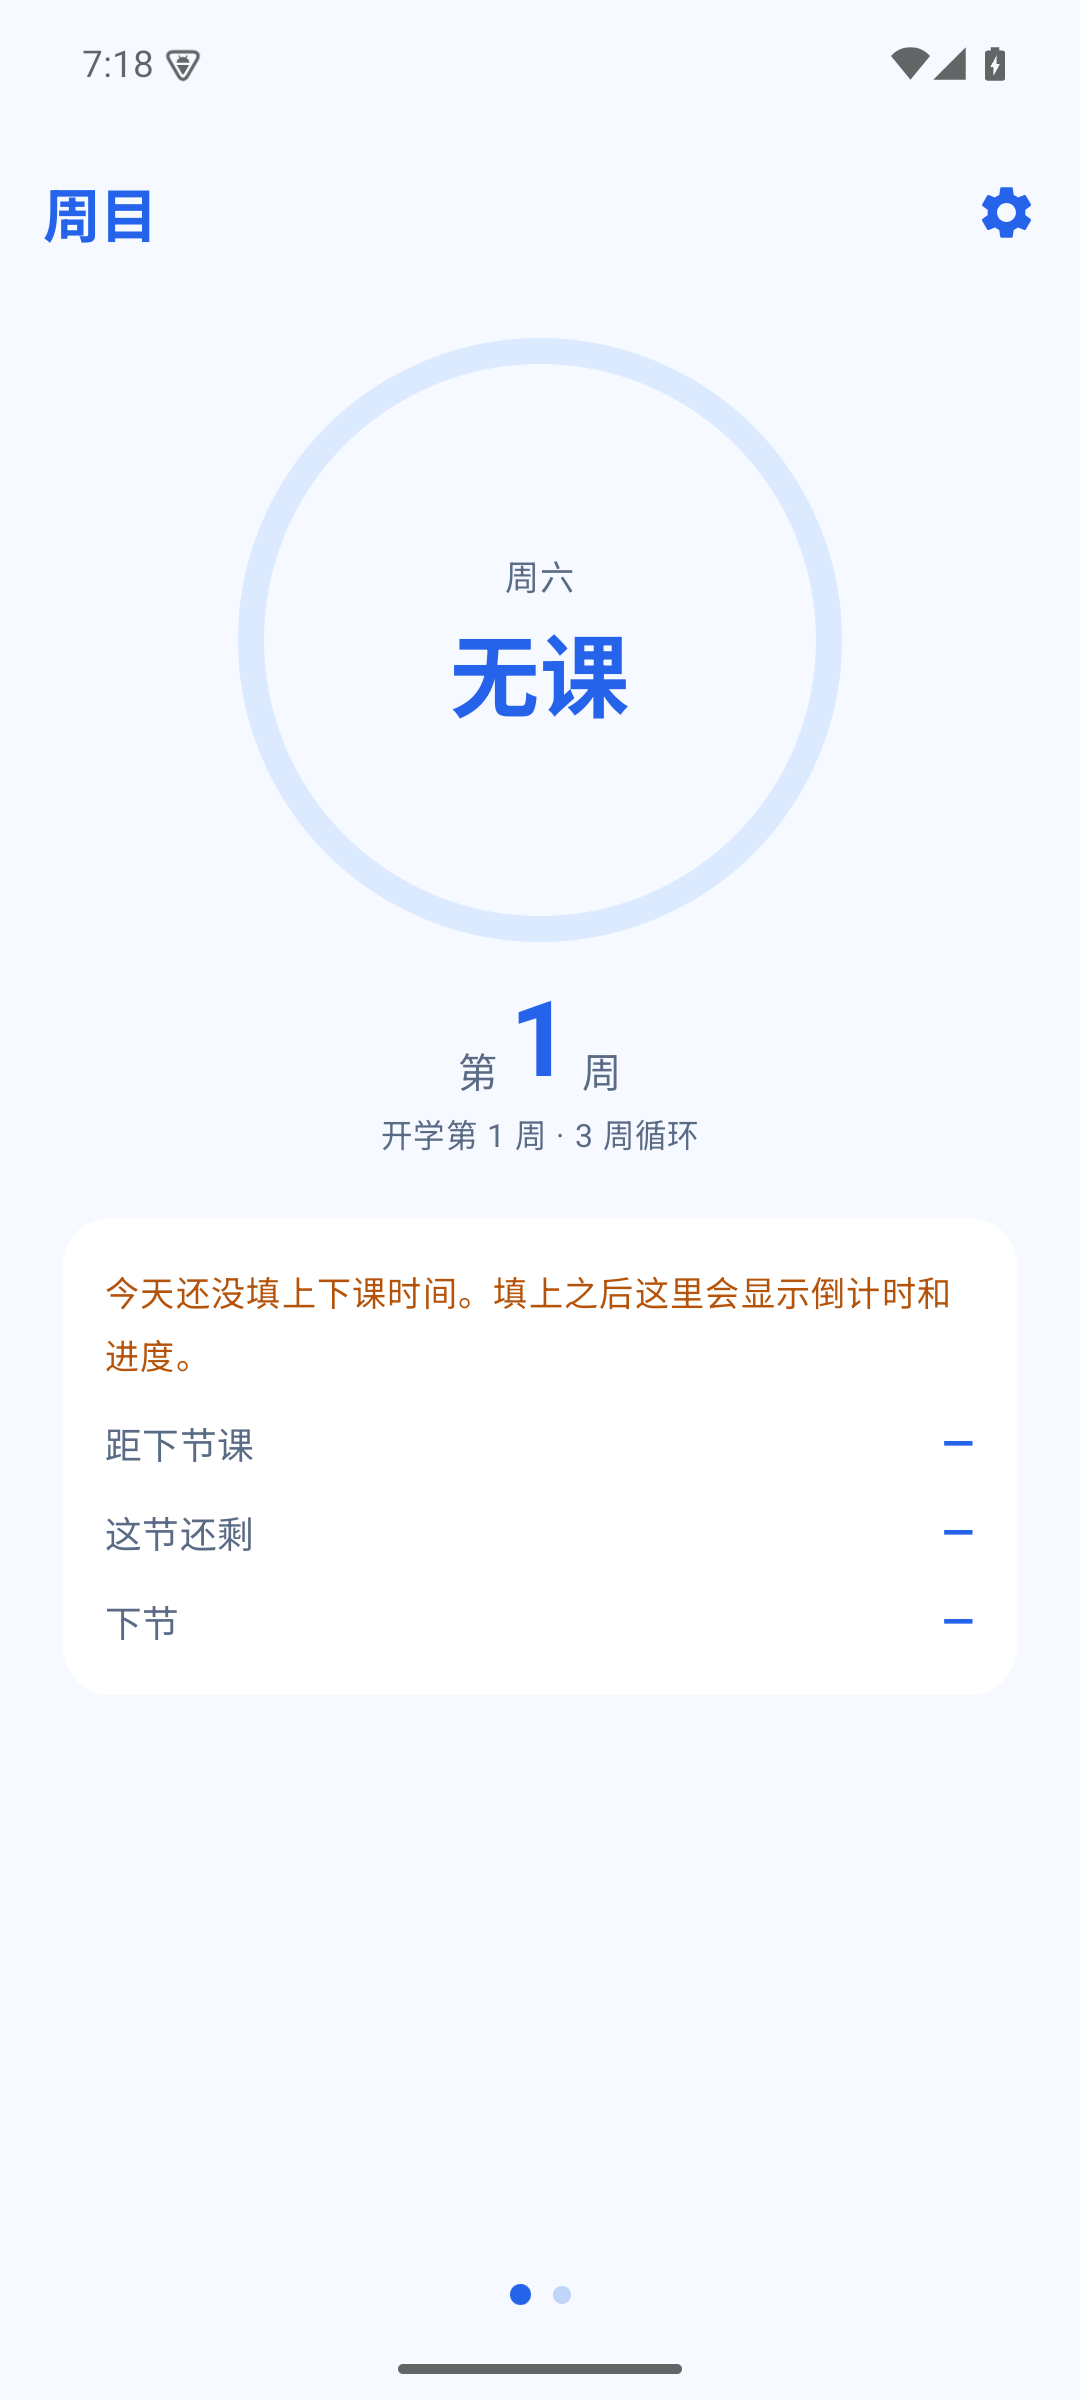
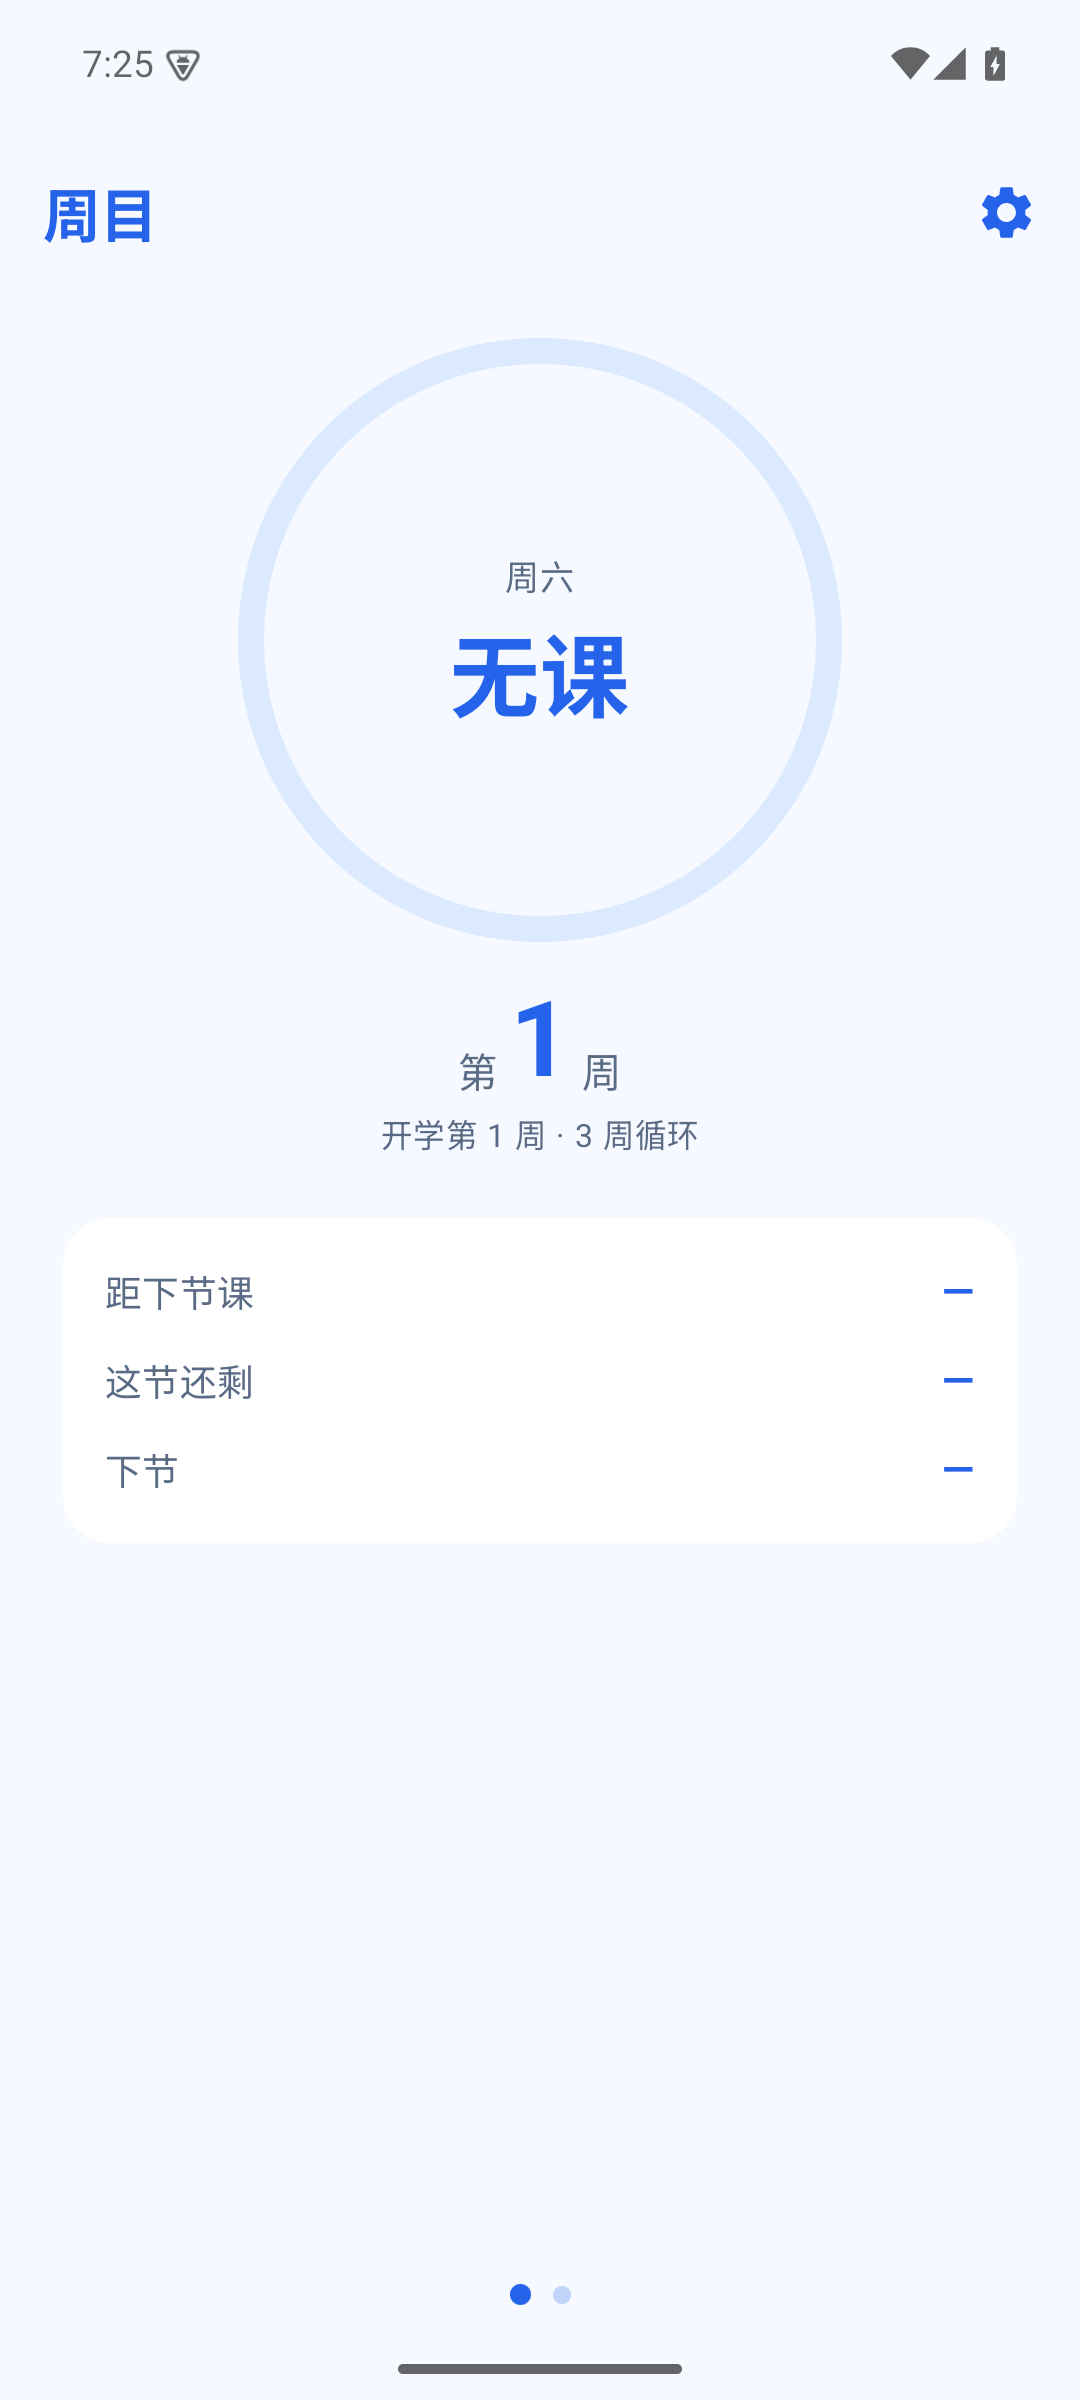
模拟器实测：修两个 bug + 补验证说明
在 Android 15 模拟器上真跑了一遍，抓到两个 bug：

① 改完课表不会重排提醒
   reschedule() 原本只在 Application.onCreate 里调一次，
   结果在 App 启动之后加课表，dumpsys alarm 里还是空的
   → 现在监听 settings 流，一变就重排 + 刷小组件

② 时间对话框的分钟加减被挤出屏幕
   小时和分钟两个 CountStepper 并排放，分钟那个 "+" 跑到屏幕外了
   → 改成上下两行；CountStepper 也加了 compact 参数

验证结果（都记进 README 了）
- 首页 / 设置 / 编辑器全部正常
- 数据持久化 OK（直接读 DataStore 确认）
- 上下课提醒：闹钟真的排进了系统，两个闹钟相差 45 分钟 = 课程时长
- 通知渠道 importance=4

没验证到的：小组件没实际加到桌面；通知弹出后的渲染没看到
（接收器 exported=false，外部广播进不去，真闹钟要等 27 分钟）

Changed region(s): [[0.0917, 0.5312, 0.275, 0.6875], [0.4583, 0.5312, 0.8861, 0.5625], [0.3056, 0.5312, 0.4278, 0.5625]]

diff --git a/app/src/main/java/com/zhoumu/android/ui/screens/SettingsScreen.kt b/app/src/main/java/com/zhoumu/android/ui/screens/SettingsScreen.kt
@@ -245,20 +245,23 @@ fun CountStepper(
     range: IntRange,
     unit: String,
     colors: ZhoumuColors,
+    compact: Boolean = false,
     onChange: (Int) -> Unit,
 ) {
     Row(
         Modifier.clip(RoundedCornerShape(9.dp)).background(colors.accentSoft),
         verticalAlignment = Alignment.CenterVertically,
     ) {
-        StepperButton("−", value > range.first, colors) { onChange(value - 1) }
+        StepperButton("−", value > range.first, colors, compact) { onChange(value - 1) }
         Text(
             "$value $unit",
-            fontSize = 15.sp, fontWeight = FontWeight.Bold, color = colors.accent,
-            modifier = Modifier.widthIn(min = 56.dp),
+            fontSize = if (compact) 13.sp else 15.sp,
+            fontWeight = FontWeight.Bold,
+            color = colors.accent,
+            modifier = Modifier.widthIn(min = if (compact) 42.dp else 56.dp),
             textAlign = androidx.compose.ui.text.style.TextAlign.Center,
         )
-        StepperButton("+", value < range.last, colors) { onChange(value + 1) }
+        StepperButton("+", value < range.last, colors, compact) { onChange(value + 1) }
     }
 }
 
@@ -267,16 +270,17 @@ private fun StepperButton(
     label: String,
     enabled: Boolean,
     colors: ZhoumuColors,
+    compact: Boolean = false,
     onClick: () -> Unit,
 ) {
     Text(
         label,
-        fontSize = 20.sp,
+        fontSize = if (compact) 17.sp else 20.sp,
         fontWeight = FontWeight.Bold,
         color = if (enabled) colors.accent else colors.faintText,
         textAlign = androidx.compose.ui.text.style.TextAlign.Center,
         modifier = Modifier
-            .size(40.dp, 34.dp)
+            .size(if (compact) 30.dp else 40.dp, 34.dp)
             .clickable(enabled = enabled, onClick = onClick)
             .wrapContentHeight(Alignment.CenterVertically),
     )

diff --git a/app/src/main/java/com/zhoumu/android/ui/screens/ScheduleEditorScreen.kt b/app/src/main/java/com/zhoumu/android/ui/screens/ScheduleEditorScreen.kt
@@ -353,23 +353,30 @@ private fun TimeDialog(
     )
 }
 
+/**
+ * 小时 / 分钟两个加减控件。
+ *
+ * 之前并排放一行，结果分钟那个 `+` 被挤出屏幕了——
+ * 模拟器实测发现的。改成两行，一行一个，怎么都放得下。
+ */
 @Composable
 private fun MinuteRow(label: String, minutes: Int, colors: ZhoumuColors, onChange: (Int) -> Unit) {
-    Row(Modifier.fillMaxWidth(), verticalAlignment = Alignment.CenterVertically) {
+    Column(verticalArrangement = Arrangement.spacedBy(6.dp)) {
         Text(label, fontSize = 15.sp, color = colors.primaryText)
-        Spacer(Modifier.weight(1f))
-        CountStepper(
-            value = minutes / 60,
-            range = 0..23,
-            unit = "时",
-            colors = colors,
-        ) { onChange(it * 60 + minutes % 60) }
-        Spacer(Modifier.width(8.dp))
-        CountStepper(
-            value = minutes % 60,
-            range = 0..55,
-            unit = "分",
-            colors = colors,
-        ) { onChange((minutes / 60) * 60 + it) }
+        Row(verticalAlignment = Alignment.CenterVertically) {
+            CountStepper(
+                value = minutes / 60,
+                range = 0..23,
+                unit = "时",
+                colors = colors,
+            ) { onChange(it * 60 + minutes % 60) }
+            Spacer(Modifier.width(10.dp))
+            CountStepper(
+                value = minutes % 60,
+                range = 0..55,
+                unit = "分",
+                colors = colors,
+            ) { onChange((minutes / 60) * 60 + it) }
+        }
     }
 }

diff --git a/app/src/main/java/com/zhoumu/android/ZhoumuApplication.kt b/app/src/main/java/com/zhoumu/android/ZhoumuApplication.kt
@@ -1,12 +1,41 @@
 package com.zhoumu.android
 
 import android.app.Application
+import com.zhoumu.android.data.SettingsRepository
 import com.zhoumu.android.notify.ClassReminders
+import com.zhoumu.android.widget.WeekWidget
+import kotlinx.coroutines.CoroutineScope
+import kotlinx.coroutines.Dispatchers
+import kotlinx.coroutines.SupervisorJob
+import kotlinx.coroutines.flow.distinctUntilChanged
+import kotlinx.coroutines.flow.drop
+import kotlinx.coroutines.launch
 
 class ZhoumuApplication : Application() {
+
+    private val scope = CoroutineScope(SupervisorJob() + Dispatchers.Default)
+
     override fun onCreate() {
         super.onCreate()
         ClassReminders.ensureChannel(this)
+
+        val repo = SettingsRepository.get(this)
+
+        // 设置一变就重排提醒 + 刷小组件。
+        //
+        // 之前只在 onCreate 里排一次，结果用户改完课表提醒不会跟着变——
+        // 实测出来的：加了一节课之后 dumpsys alarm 里还是空的。
+        scope.launch {
+            repo.settings
+                .drop(1)                 // 首次由下面的 reschedule 负责，别重复
+                .distinctUntilChanged()
+                .collect {
+                    ClassReminders.reschedule(this@ZhoumuApplication)
+                    runCatching { WeekWidget.refresh(this@ZhoumuApplication) }
+                }
+        }
+
+        // 冷启动先排一次
         ClassReminders.reschedule(this)
     }
 }

diff --git a/README.md b/README.md
@@ -77,16 +77,32 @@
 
 ## 验证情况
 
-已经做过的：
+在 **Android 15 模拟器（Pixel 6）** 上实测过的：
 
-- **18 项单元测试全过**（断言和 iOS 版 `Tools/CalculatorCheck` 一一对应）
-- **Debug APK 编译通过**（minSdk 26 / targetSdk 35）
-- **在 Android 15 模拟器上跑起来过**，首页和设置页都正常（见上面两张图）
+| 项目 | 结果 |
+| :--- | :--- |
+| 18 项单元测试 | ✅ 全过（断言和 iOS 版 `Tools/CalculatorCheck` 一一对应） |
+| Debug APK 编译 | ✅ minSdk 26 / targetSdk 35 |
+| 首页 | ✅ 圆环、第 N 周、三行倒计时都正常 |
+| 设置页 | ✅ 外观三态、开学日期、循环、两张课表、提醒 |
+| 课表编辑器 | ✅ 每日节数、**统一 / 每天单独**切换、时间、科目 |
+| 数据持久化 | ✅ 重启 App 后设置还在（直接读 DataStore 确认过） |
+| **上下课提醒** | ✅ **闹钟真的排进了系统** —— `dumpsys alarm` 里能看到两个 `ReminderReceiver`，时间相差正好等于课程时长 |
+| 通知渠道 | ✅ `zhoumu.class`，importance=4（HIGH） |
 
-还没做的：
+**实测中抓到并修掉的两个 bug**：
 
-- 桌面小组件和上下课提醒**没有实际验证过** ——
-  这两块要真机或者装 App 到桌面才能试，模拟器上只验证了编译通过。
+1. **改完课表不会重排提醒** —— `reschedule()` 原本只在 App 启动时调一次，
+   结果加完课表闹钟还是空的。现在监听设置变化，一变就重排。
+2. **时间对话框的分钟加减被挤出屏幕** —— 小时和分钟两个控件并排放不下。
+   改成上下两行。
+
+**还没验证的**：
+
+- **桌面小组件**：只验证了编译通过，没实际加到桌面上看过。
+  模拟器上加小组件要走启动器的长按菜单，自动化比较麻烦。
+- **通知弹出后的样子**：接收器是 `exported="false"`，没法用 `am broadcast` 从外部触发；
+  真闹钟要等 27 分钟。**排程本身已经确认正确**，剩下的是渲染。
 
 ## 自己编译
 
